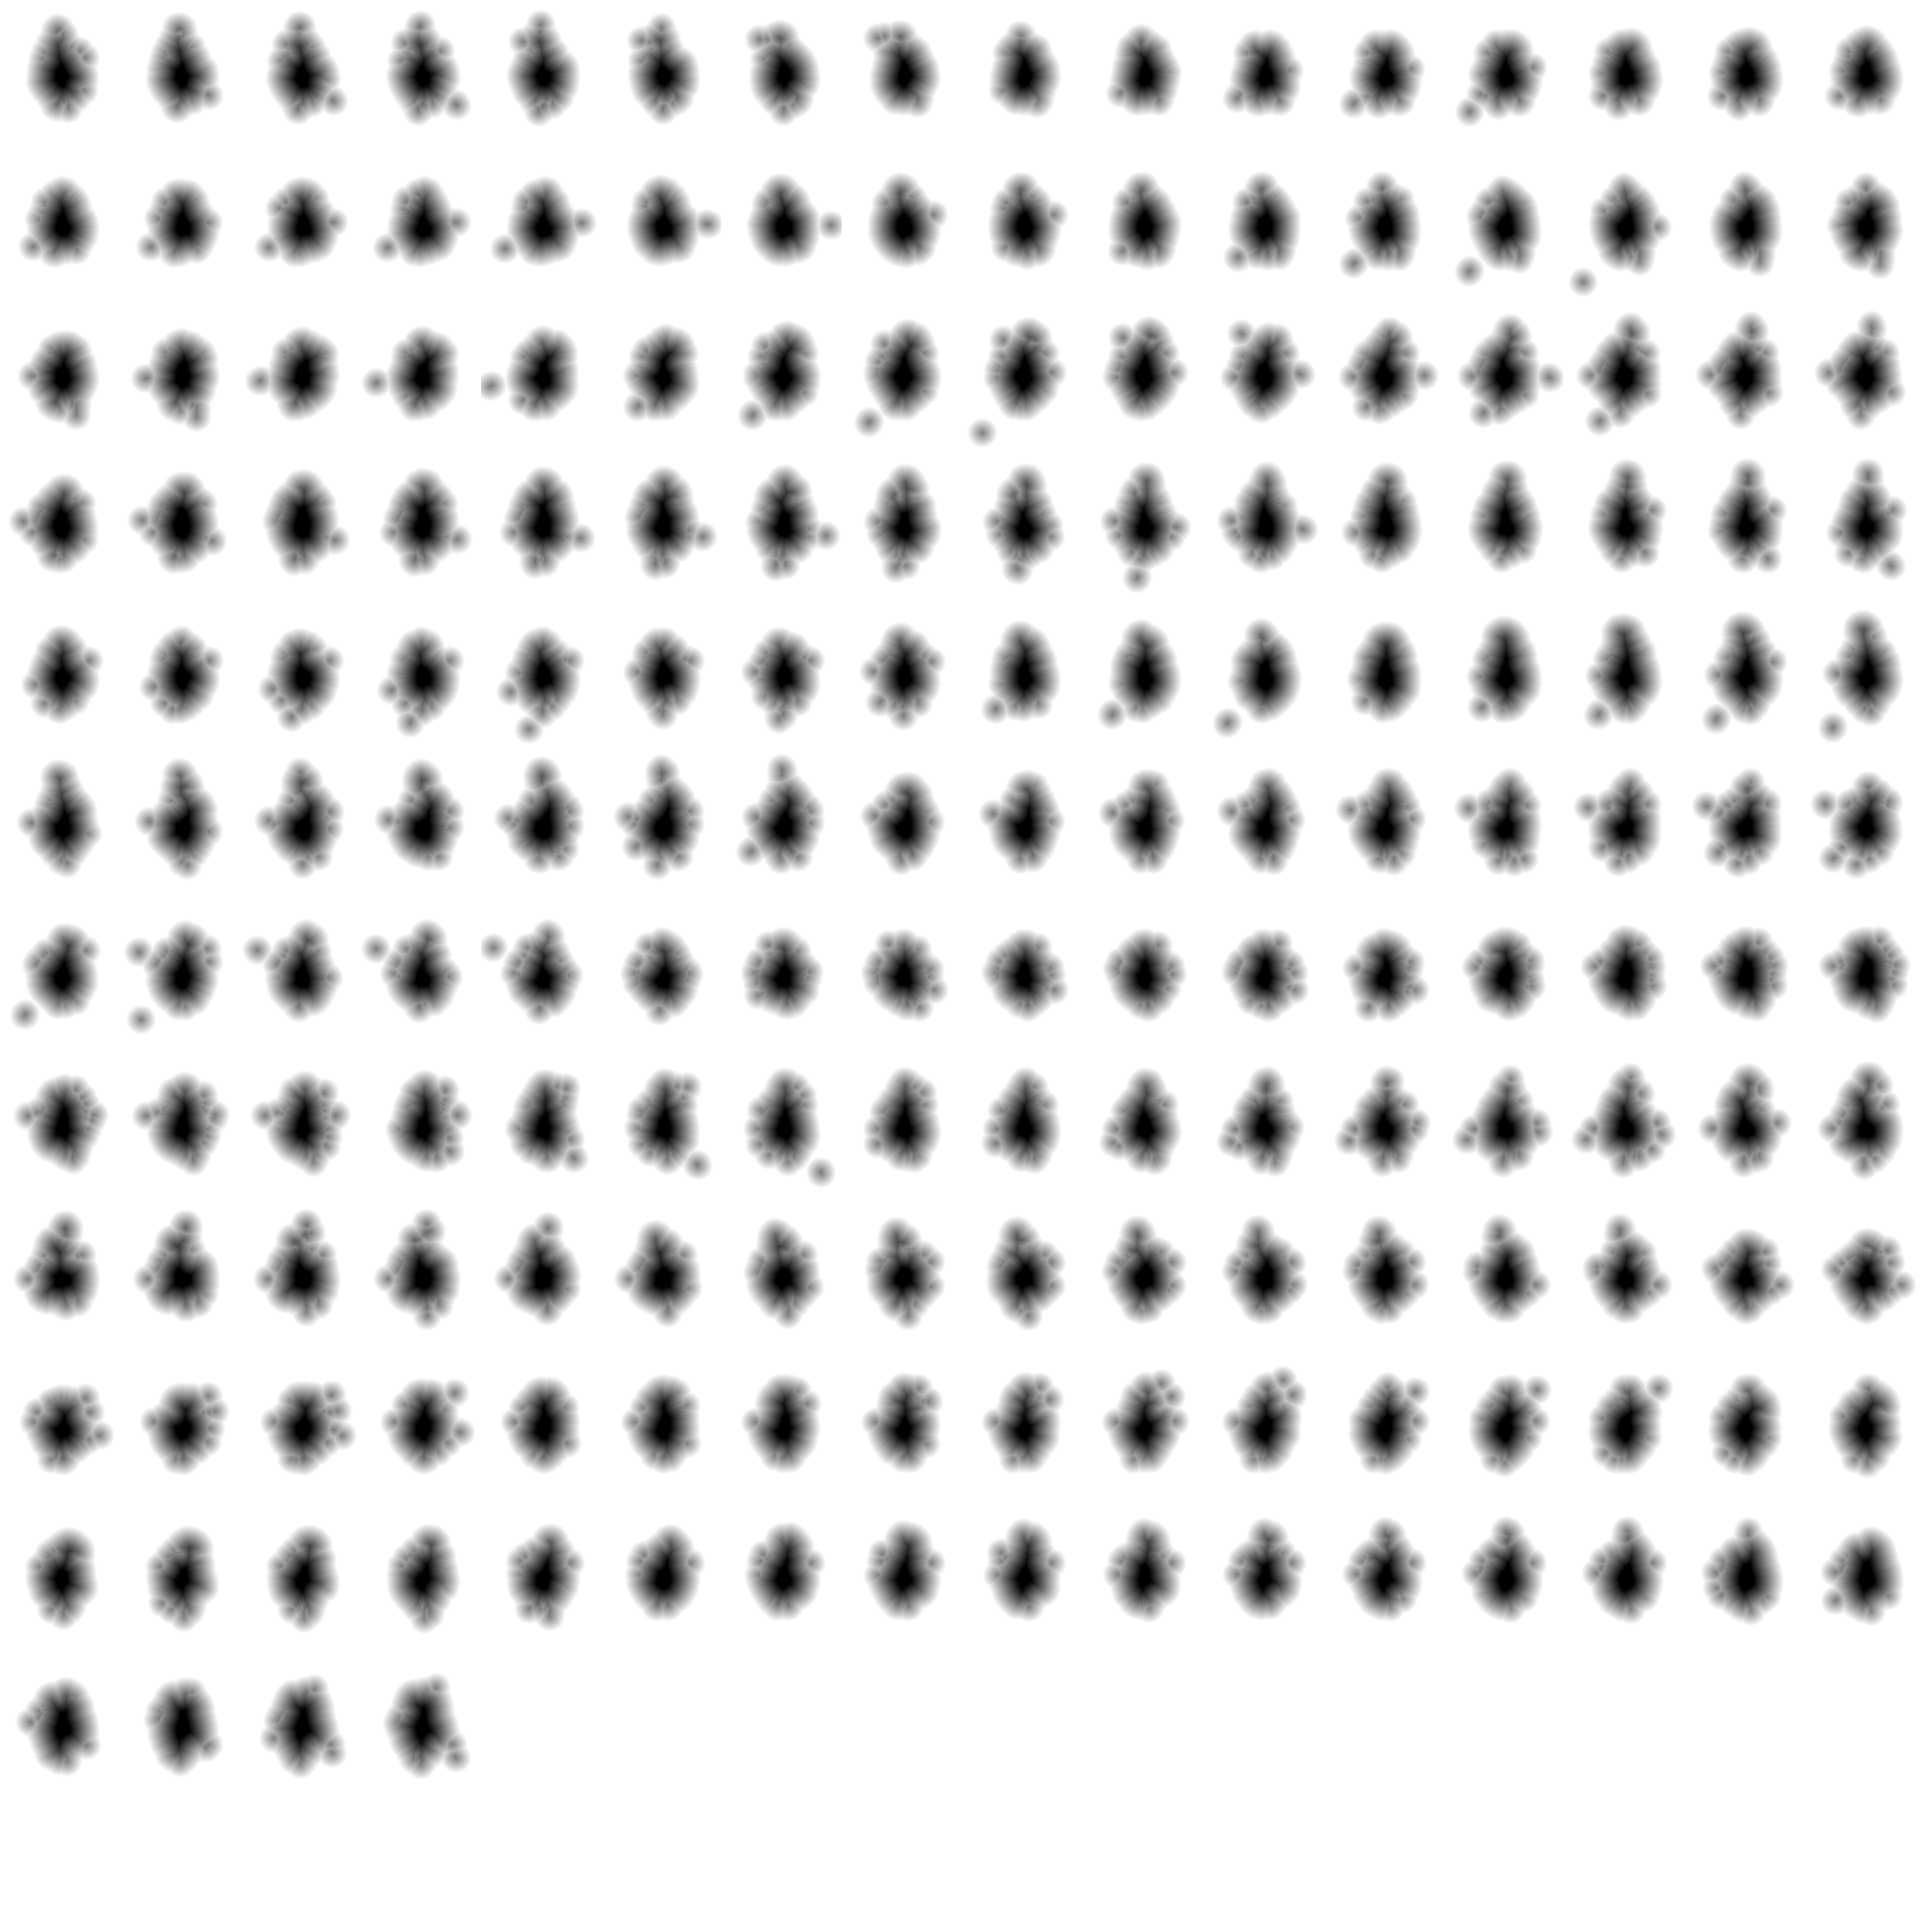
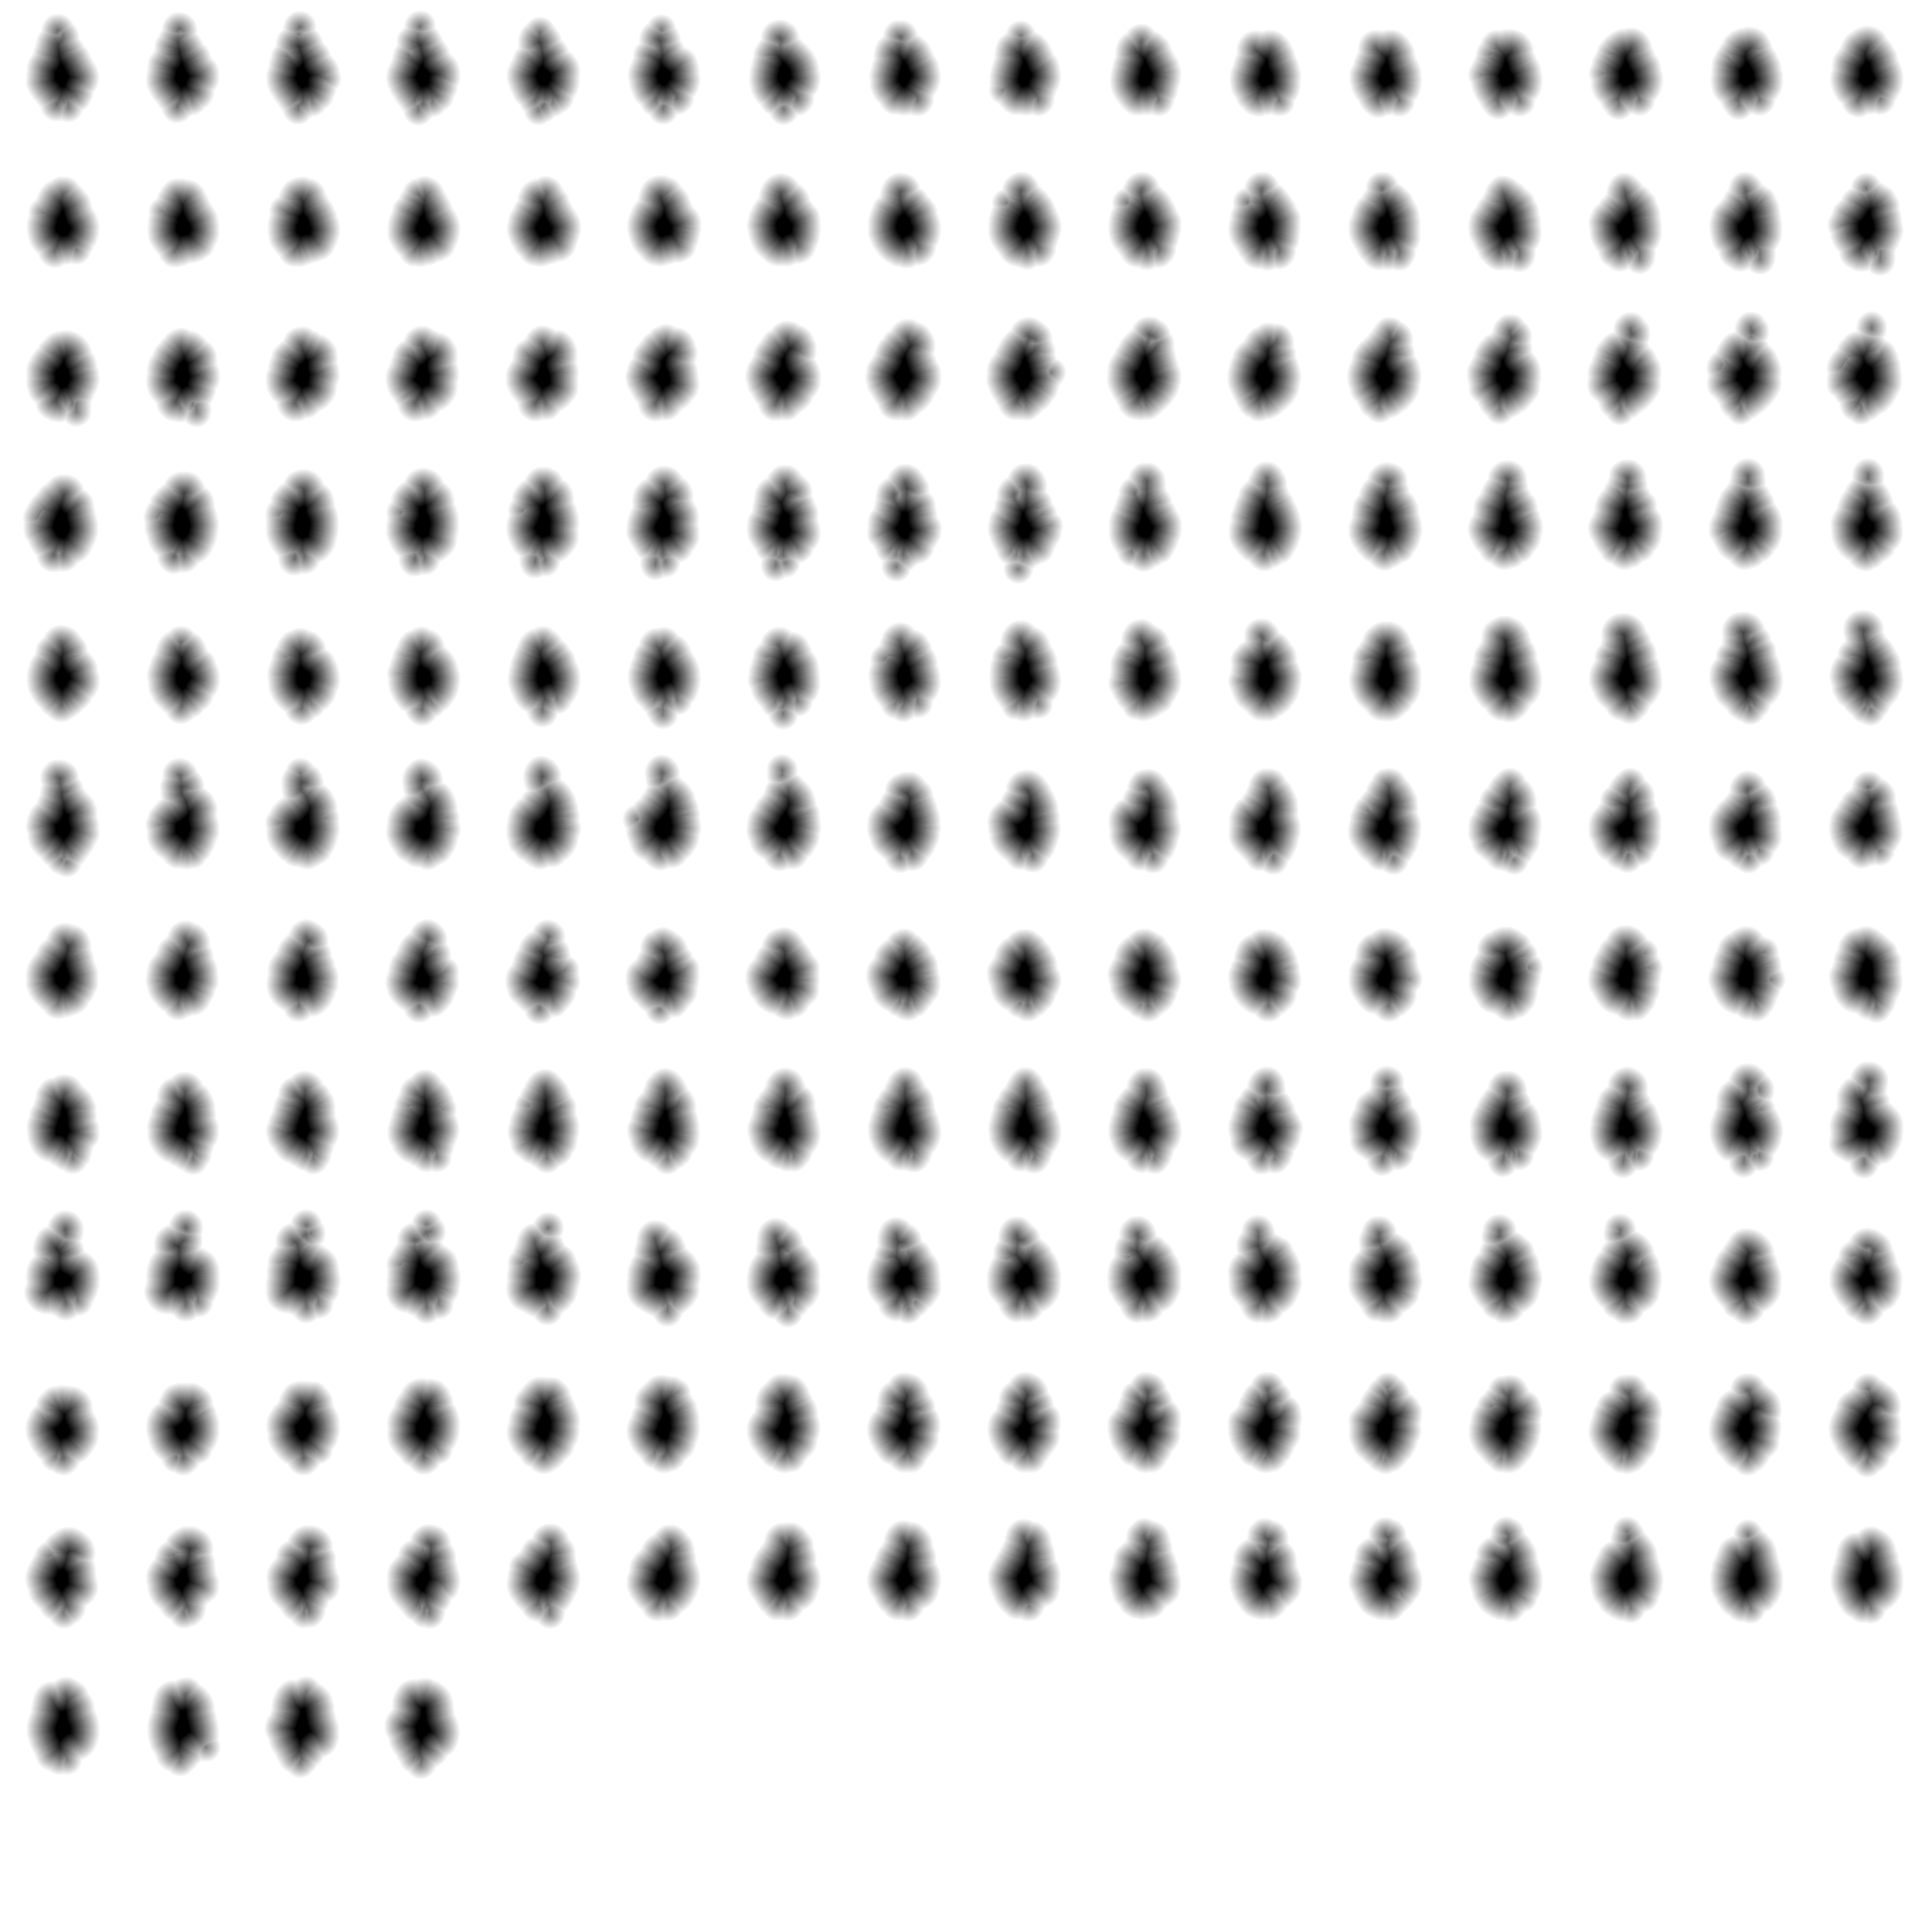
Smooth the preview flame edges and add a cel-style color gradation (?v=6)
Keep the v5 silhouette flipbook and timings, render the flame at 2x DPR
with softer SDF anti-aliasing, and recolor it to the new reference's
posterized cream, gold, and orange bands. The face is dark so it stays
readable on the bright body.

diff --git a/preview/index.html b/preview/index.html
@@ -257,6 +257,9 @@
     var debugOn = flag('debug');
     var hideUi = flag('hideui') || flag('demo') || q.get('ui') === '0';
     var holdFps = flag('smooth') ? 0 : (parseFloat(q.get('hold')) || 22);
+    var blackFace = q.get('face') !== 'white' && !flag('whiteface');
+    var faceInk = blackFace ? '#1a0c08' : '#fff';
+    var faceShadeAmt = blackFace ? 0.0 : 1.0;
     var flipMeta = null;
     var flipReady = false;
     var flipTex = null;
@@ -399,6 +402,7 @@
       'uniform vec2 uFacePx;',
       'uniform float uPx;',
       'uniform float uSdfRange;',
+      'uniform float uFaceShade;',
       '',
       'float hash12(vec2 p){',
       '  vec2 q = fract(p * vec2(0.1031, 0.1030));',
@@ -559,36 +563,47 @@
       '    }',
       '  }',
       '',
-      '  vec3 bodyA = vec3(0.761, 0.255, 0.047);',  // #c2410c
-      '  vec3 bodyB = vec3(0.918, 0.345, 0.047);',  // #ea580c
-      '  vec3 ember = vec3(0.478, 0.129, 0.027);',  // darker toward the face
-      '  vec3 yellow= vec3(1.00, 0.82, 0.25);',
-      '  vec3 hot   = vec3(1.00, 0.95, 0.78);',
-      '  vec3 haloC = vec3(0.71,  0.22, 0.06);',
-      '  vec3 glowC = vec3(0.196, 0.055, 0.035);',
-      '  vec3 ringC = vec3(0.45,  0.14,  0.06);',
-      '  vec3 smokeC= vec3(0.30,  0.24,  0.21);',
+      '  vec3 cream = vec3(1.000, 1.000, 0.420);',   // 255,255,107
+      '  vec3 gold  = vec3(0.996, 0.698, 0.173);',   // 254,178,44
+      '  vec3 orange= vec3(0.808, 0.424, 0.129);',   // 206,108,33
+      '  vec3 deep  = vec3(0.498, 0.216, 0.118);',   // 127,55,30
+      '  vec3 shade = vec3(0.235, 0.078, 0.047);',   // dark band behind the face
+      '  vec3 haloC = vec3(0.90,  0.42,  0.10);',    // soft orange glow
+      '  vec3 glowC = vec3(0.35,  0.10,  0.05);',
+      '  vec3 hazeC = vec3(0.188, 0.063, 0.063);',   // maroon-brown haze
+      '  vec3 ringC = vec3(0.45,  0.16,  0.07);',
+      '  vec3 smokeC= vec3(0.30,  0.18,  0.14);',
       '',
       '  float dist = length(p);',
       '  float sd = (uUseAtlas > 0.5) ? sdA : sdFlame(p, ts);',
-      '  float fire = smoothstep(0.016, -0.007, sd);',
+      '  // Pixel-sized AA so edges stay smooth at 2x DPR without jaggies.',
+      '  float aa = 1.35 / max(uScale.y * 102.0, 1.0);',
+      '  float fire = smoothstep(aa, -aa, sd);',
       '',
-      '  // Deep orange body, slightly darker toward the face. No flat white fill.',
-      '  vec3 col = mix(bodyA, bodyB, clamp(0.30 + 0.55 * vnoise(p * 2.4 + ts * 0.5), 0.0, 1.0));',
-      '  float core = 1.0 - smoothstep(0.14, 0.68, length(p - vec2(0.0, 0.02)));',
-      '  col = mix(col, ember, core);',
-      '  // Brighter orange-yellow only on thin edges and tips.',
-      '  float rim = fire * exp(-80.0 * abs(sd));',
-      '  float tip = fire * smoothstep(0.50, 1.45, p.y);',
-      '  col = mix(col, yellow, clamp(rim * 0.90 + tip * rim * 0.4, 0.0, 1.0));',
-      '  col = mix(col, hot, clamp(pow(rim, 0.75) * (0.45 + 0.55 * tip), 0.0, 1.0));',
+      '  // Posterized cream / gold / orange bands. Hot patches scroll with the boil.',
+      '  float nH = vnoise(vec2(p.x * 0.62, p.y * 0.55 - ts * 0.62));',
+      '  float nH2= vnoise(vec2(p.x * 1.05 + 5.3, p.y * 0.90 - ts * 0.28));',
+      '  float boil = nH * 0.80 + nH2 * 0.20;',
+      '  float depth = clamp(-sd * 1.20, 0.0, 1.0);',
+      '  float band = mix(0.10, 0.88, boil) * mix(0.40, 1.0, depth);',
+      '  float toGold  = smoothstep(0.18, 0.26, band);',
+      '  float toCream = smoothstep(0.48, 0.56, band);',
+      '  vec3 col = mix(orange, gold, toGold);',
+      '  col = mix(col, cream, toCream);',
+      '  float rimT = smoothstep(-0.14, -0.02, sd);',
+      '  col = mix(col, orange, rimT * 0.95);',
+      '  col = mix(col, deep, rimT * smoothstep(0.02, 0.12, sd + 0.04) * 0.22);',
+      '  // Optional dark band behind the white face so it stays readable on cream.',
+      '  float core = 1.0 - smoothstep(0.16, 0.72, length(p - vec2(0.0, 0.03)));',
+      '  col = mix(col, shade, core * uFaceShade);',
       '',
-      '  // Tight orange halo around the crisp edge, then a soft dark-red aura.',
-      '  float close = exp(-max(sd, 0.0) * 7.5) * (0.95 + 0.15 * uFlare);',
-      '  float midg  = exp(-max(sd, 0.0) * 2.1) * 0.55;',
-      '  float far   = exp(-dist * 0.68) * 0.24;',
+      '  // Soft orange halo, then maroon-brown haze like the color reference.',
+      '  float close = exp(-max(sd, 0.0) * 5.8) * (0.95 + 0.15 * uFlare);',
+      '  float midg  = exp(-max(sd, 0.0) * 1.7) * 0.50;',
+      '  float hazeA = exp(-dist * 0.42) * 0.85;',
       '  close *= 1.0 - fire * 0.92;',
       '  midg  *= 1.0 - fire * 0.85;',
+      '  hazeA *= 1.0 - fire * 0.70;',
       '',
       '  // Faint broken ring, not a clock face.',
       '  float aang = atan(p.y + 0.06, p.x);',
@@ -615,7 +630,7 @@
       '  }',
       '  smoke *= 1.0 - fire;',
       '',
-      '  vec3 rgb = haloC * close + glowC * (midg + far) + ringC * ringA + smokeC * smoke;',
+      '  vec3 rgb = hazeC * hazeA + haloC * close + glowC * midg + ringC * ringA + smokeC * smoke;',
       '  rgb = mix(rgb, col, fire);',
       '  gl_FragColor = vec4(rgb, 1.0);',
       '}'
@@ -677,6 +692,7 @@
       glUni.uFacePx = gl.getUniformLocation(glProg, 'uFacePx');
       glUni.uPx = gl.getUniformLocation(glProg, 'uPx');
       glUni.uSdfRange = gl.getUniformLocation(glProg, 'uSdfRange');
+      glUni.uFaceShade = gl.getUniformLocation(glProg, 'uFaceShade');
       gl.disable(gl.DEPTH_TEST);
       gl.disable(gl.BLEND);
       return true;
@@ -684,8 +700,9 @@
 
     function resizeFlameGL() {
       if (!gl || !flameCanvas) return;
-      var dw = Math.max(1, Math.round(W));
-      var dh = Math.max(1, Math.round(H));
+      var fdpr = Math.min(window.devicePixelRatio || 1, 2);
+      var dw = Math.max(1, Math.round(W * fdpr));
+      var dh = Math.max(1, Math.round(H * fdpr));
       if (flameCanvas.width !== dw || flameCanvas.height !== dh) {
         flameCanvas.width = dw;
         flameCanvas.height = dh;
@@ -704,9 +721,10 @@
       gl.bindBuffer(gl.ARRAY_BUFFER, glBuf);
       gl.enableVertexAttribArray(0);
       gl.vertexAttribPointer(0, 2, gl.FLOAT, false, 0, 0);
+      var fdpr = flameCanvas.width / Math.max(W, 1);
       gl.uniform2f(glUni.uRes, flameCanvas.width, flameCanvas.height);
-      gl.uniform2f(glUni.uCenter, xf.x, xf.y);
-      gl.uniform2f(glUni.uScale, xf.scx, xf.scy);
+      gl.uniform2f(glUni.uCenter, xf.x * fdpr, xf.y * fdpr);
+      gl.uniform2f(glUni.uScale, xf.scx * fdpr, xf.scy * fdpr);
       gl.uniform1f(glUni.uAngle, xf.ang);
       gl.uniform1f(glUni.uTime, now);
       gl.uniform1f(glUni.uFlare, flare);
@@ -721,6 +739,9 @@
         gl.uniform2f(glUni.uFacePx, flipMeta.faceX, flipMeta.faceY);
         gl.uniform1f(glUni.uPx, flipMeta.bodyHalf / 1.08);
         gl.uniform1f(glUni.uSdfRange, flipMeta.sdfRange);
+        gl.uniform1f(glUni.uFaceShade, faceShadeAmt);
+      } else {
+        gl.uniform1f(glUni.uFaceShade, faceShadeAmt);
       }
       gl.drawArrays(gl.TRIANGLE_STRIP, 0, 4);
     }
@@ -1210,8 +1231,8 @@
       c.rotate(rot || 0);
       var r = D / 2;
       var thick = D * 0.18;
-      c.fillStyle = '#fff';
-      c.strokeStyle = '#fff';
+      c.fillStyle = faceInk;
+      c.strokeStyle = faceInk;
       c.lineCap = 'round';
       c.lineJoin = 'round';
       if (kind === 'circle') {
@@ -1265,7 +1286,7 @@
       if (amt < 0.05) return;
       c.save();
       c.globalAlpha *= amt;
-      c.strokeStyle = '#fff';
+      c.strokeStyle = faceInk;
       var thick = D * 0.11;
       // inner ends raised (worried)
       var lift = D * 0.16;
@@ -1296,8 +1317,8 @@
       var mx = FACE_CX;
       var my = mouthCenterY(curve, width / EYE_D, thick / EYE_D);
 
-      c.strokeStyle = '#fff';
-      c.fillStyle = '#fff';
+      c.strokeStyle = faceInk;
+      c.fillStyle = faceInk;
 
       if (open > 0.08) {
         var rx = width * 0.42;
@@ -1368,7 +1389,7 @@
       var open = blink;
 
       // Soft pre-rendered glow under features (no per-frame filters).
-      if (softDot) {
+      if (softDot && !blackFace) {
         var gs = D * 2.6;
         c.globalAlpha = 0.55;
         c.drawImage(softDot, eyes.lx - gs / 2, eyes.y - gs / 2, gs, gs);

diff --git a/preview/README.md b/preview/README.md
@@ -1,8 +1,8 @@
 # Echo flame preview
 
-A moving preview of Echo as a lively flame spirit. Pure black background, approved white-face proportions, no libraries.
+A moving preview of Echo as a lively flame spirit. Pure black background, approved face proportions, no libraries.
 
-**Live:** https://wirawibawa2-cmd.github.io/echo-face/preview/?v=5
+**Live:** https://wirawibawa2-cmd.github.io/echo-face/preview/?v=6
 
 This lives at `/preview/` so the root `index.html` (commit 6ff4e06) stays untouched.
 
@@ -15,7 +15,7 @@ Query flags: `?auto=1` starts Auto mode, `?debug=1` shows FPS, `?still=1&expr=ha
 
 ## Controls
 
-Echo stays in the center of the screen. The flame is a WebGL flipbook of the reference fire's silhouettes (recolored deep orange, darker behind the white face, with brighter orange-yellow only on thin edges and tips), played at the GIF's own frame timing so the boil, licks, pinch-off blobs and drips stay organic. A procedural canvas/WebGL flame is the fallback if the atlas or WebGL is missing. A gentle bob, blinks, look-around, and tap flares keep him alive. The row at the bottom sets an expression. **Auto** cycles the 12 faces at random.
+Echo stays in the center of the screen. The flame is a WebGL flipbook of the reference fire's silhouettes, played at the GIF's own frame timing so the motion stays organic. Edges are smoothed (soft SDF, 2x DPR). Color follows the cel-style reference: pale yellow/cream hot patches that shift with the boil, golden mid tones, an orange edge, a soft orange glow, and a maroon-brown haze. The face is very dark brown/black so it stays readable on the bright cream body (Wira signed off on this). Use ?face=white to try a white face with a dark band behind it. A procedural flame is the fallback if the atlas or WebGL is missing. A gentle bob, blinks, look-around, and tap flares keep him alive. The row at the bottom sets an expression. **Auto** cycles the 12 faces at random.
 
 ## App API
 
